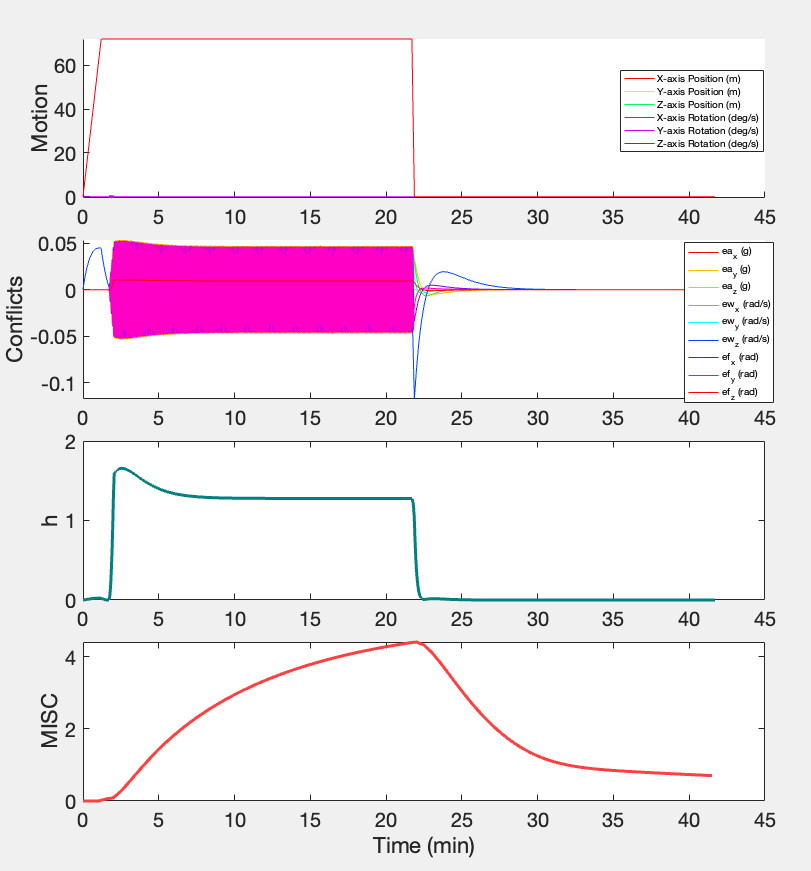
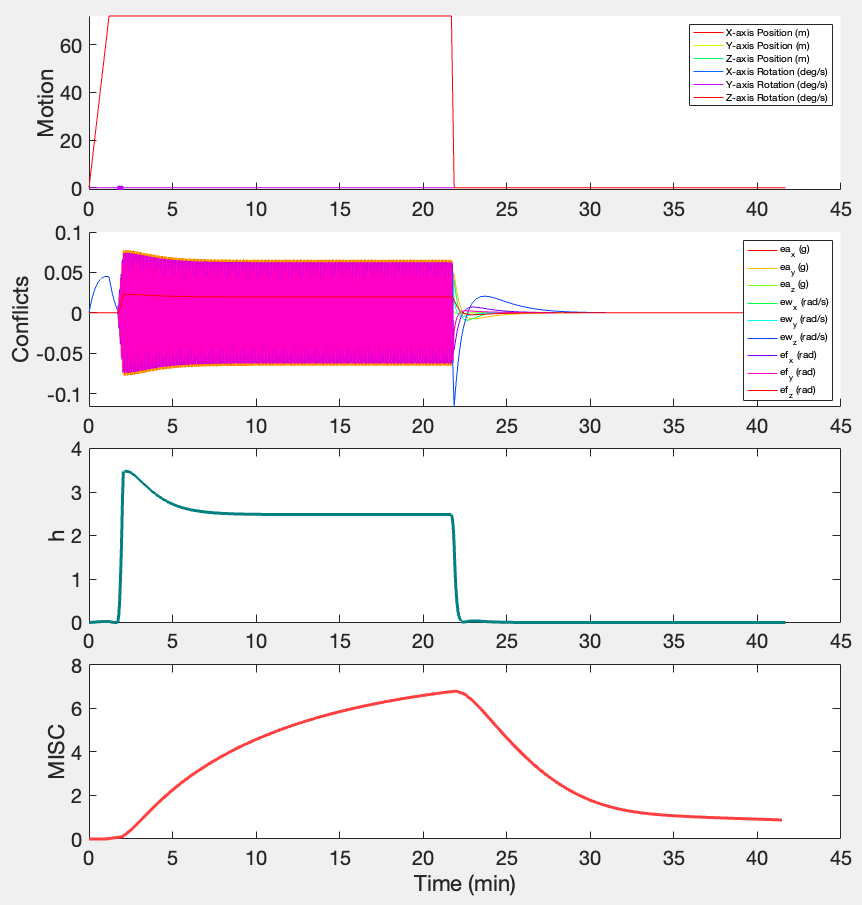
bug

diff --git a/Main.m b/Main.m
@@ -25,7 +25,7 @@ switch motiontype
         % columns 1-3 are xyz position
         % columns 4-6 are xyz rotations
         freq = 0.3;
-        amp = 3.6 /((2*pi*freq)^2); % zposition amplitude
+        amp = 3.6 /((2*pi*freq)^2); % yposition amplitude
         model_motion(:,2) = amp*sin(freq*2*pi*(model_time));
         
         % Glevel is the Gravity Environment
@@ -44,6 +44,7 @@ switch motiontype
         
     case 'Cian'
         % Cian Simulation
+        Glevel = 1.00;
         T = 60*20+102; %seconds
         dt = 0.1;
         model_time = (0:dt:T)';
@@ -51,7 +52,7 @@ switch motiontype
         
         starttime = 102;
         endtime = 122;
-        ang = 12; %degrees
+        ang = 18; %degrees
         
         RotSpeed = ang/(endtime-starttime);
         % Human Reference Frame motions
@@ -96,9 +97,9 @@ R = cont2MISC(R);
 FS = 20; % FontSize
 cd = colormap('hsv');
 
-legMotion = {'X-axis Position (m/s^2)',...
-             'Y-axis Position (m/s^2)',...
-             'Z-axis Position (m/s^2)',...
+legMotion = {'X-axis Position (m)',...
+             'Y-axis Position (m)',...
+             'Z-axis Position (m)',...
              'X-axis Rotation (deg/s)',...
              'Y-axis Rotation (deg/s)',...
              'Z-axis Rotation (deg/s)'};
